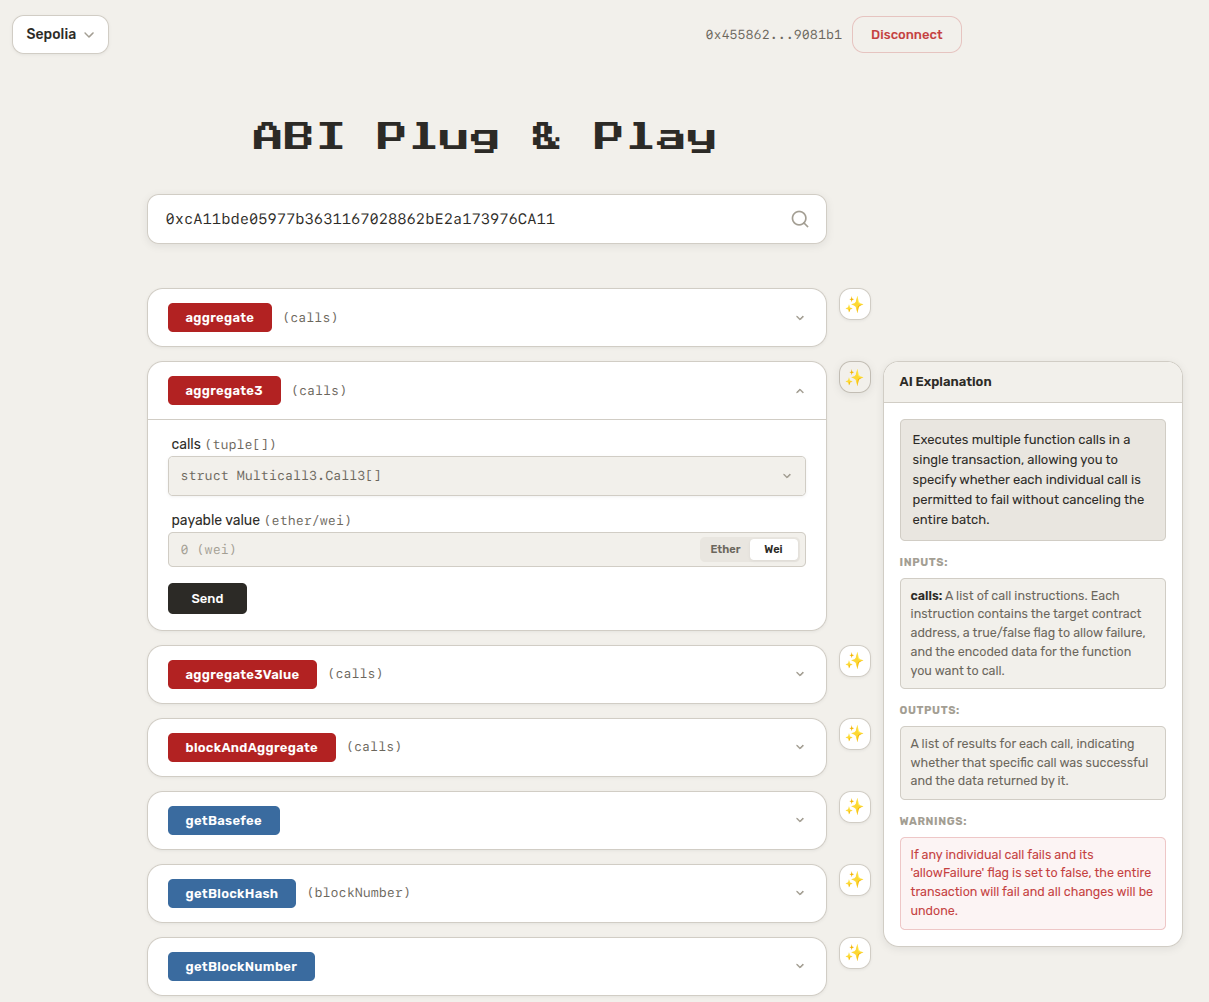
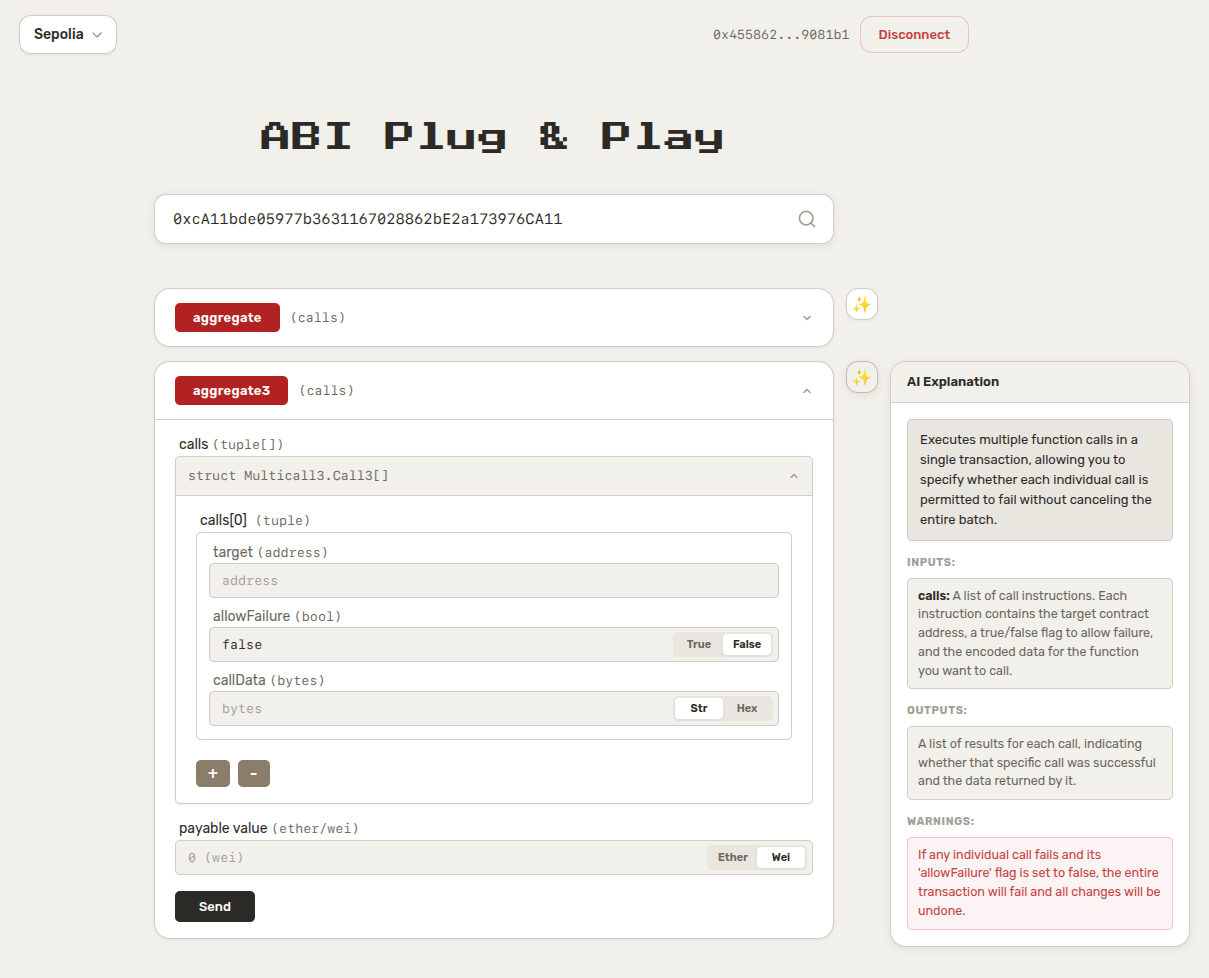
docs: up

diff --git a/README.md b/README.md
@@ -9,7 +9,7 @@
 ## Features
 
 - **Auto ABI Fetching** — Fetches verified ABIs from block explorers automatically.
-- **AI Function Explanations** — Understand complex transactions instantly. AI describes function purpose, inputs, outputs, and adds warnings for potential pitfalls like reentrancy.
+- **AI Function Explanations** — AI explains function purpose, inputs, outputs, and adds warnings for potential pitfalls like reentrancy.
 - **Read & Write** — Call view/pure functions without connecting a wallet, or send transactions via your connected wallet.
 - **Payable Support** — Specify value in ETH or Wei for payable functions.
 - **Multi-Chain** — Supports Ethereum, Sepolia, Optimism, Arbitrum, Polygon, BSC, opBNB and testnets.
